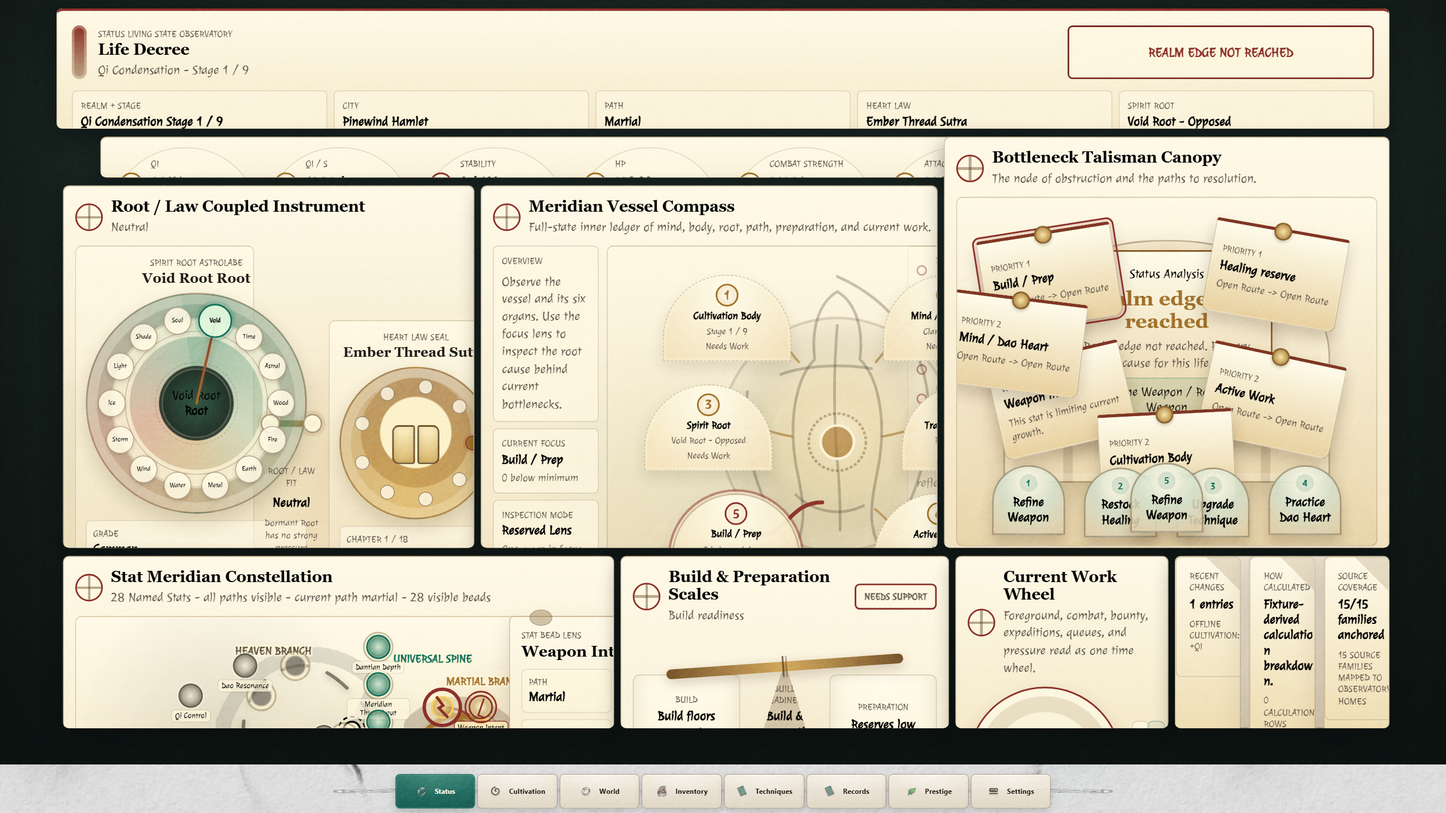
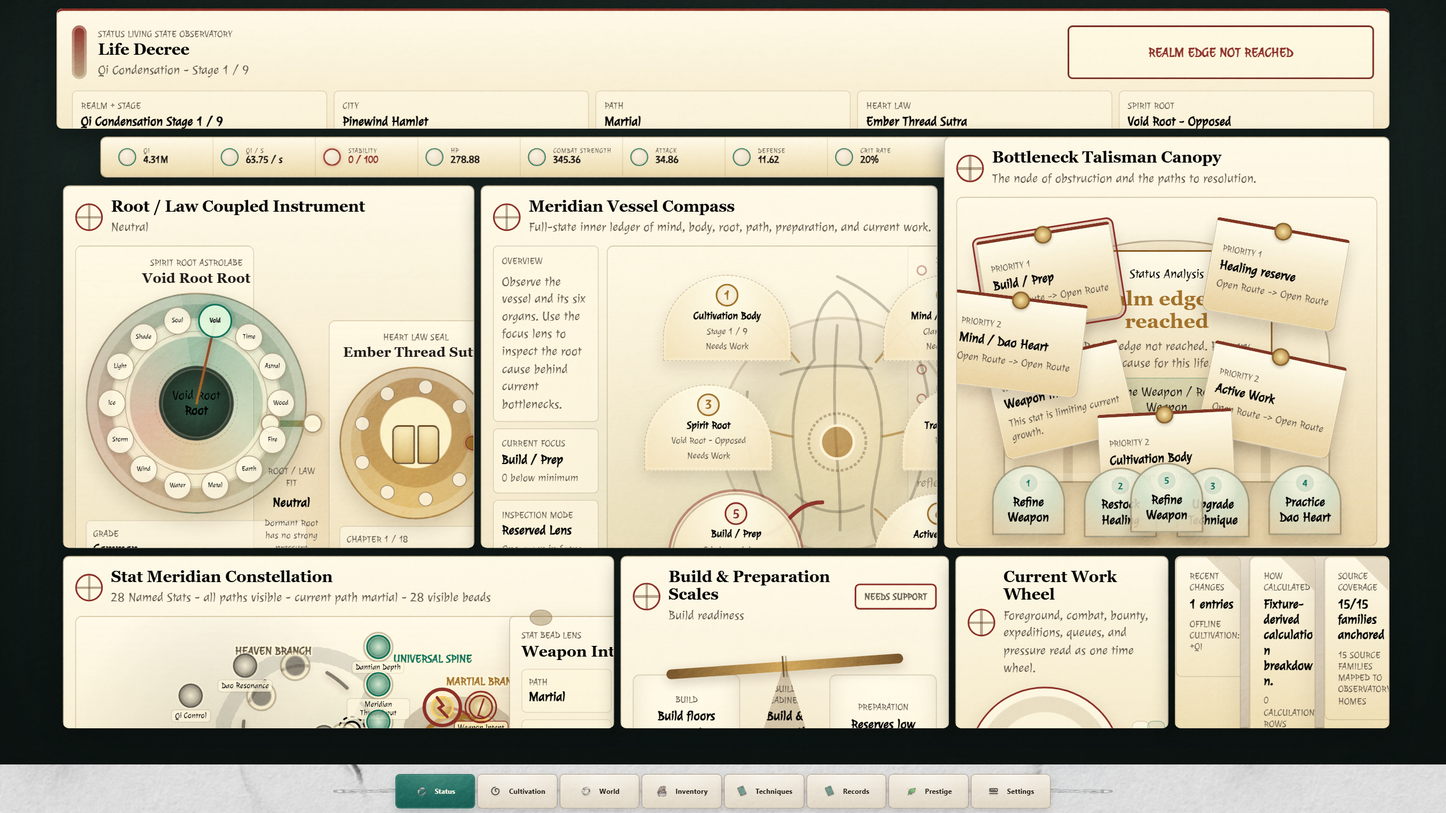
oneshot S3 (partial): Vitals Seal Ribbon — slim 9-cell medallion strip, removed D-5 source captions

Changed region(s): [[0.0625, 0.1875, 0.6562, 0.2188]]

diff --git a/src/ui/status/observatory/StatusLivingStateObservatory.scss b/src/ui/status/observatory/StatusLivingStateObservatory.scss
@@ -346,48 +346,91 @@
   line-height: 1.25;
 }
 
+/* S3: slim seal-ribbon strip — 9 metric medallions in a single row that fits
+   the 1160x50 vitals rect (no more clipped 90px pill gauges, no source caption). */
 .statusVitalsRibbon {
   display: grid;
-  grid-template-columns: repeat(6, minmax(0, 1fr));
-  gap: 8px;
-  padding: 12px;
+  grid-template-columns: repeat(9, minmax(0, 1fr));
+  align-items: center;
+  width: 100%;
+  height: 100%;
+  padding: 0 12px;
 }
 
 .statusVitalsRibbon__seal {
-  min-height: 90px;
   display: grid;
-  grid-template-columns: 30px minmax(0, 1fr);
+  grid-template-columns: 24px minmax(0, 1fr);
   grid-template-areas:
     "icon label"
-    "icon value"
-    "icon source";
-  gap: 2px 8px;
+    "icon value";
+  column-gap: 7px;
   align-items: center;
-  padding: 10px;
-  border-radius: 999px 999px 8px 8px;
-  border: 1px solid rgba(90, 62, 30, 0.18);
-  background: rgba(255, 249, 229, 0.62);
+  height: 100%;
+  min-height: 0;
+  padding: 0 9px;
+  border: 0;
+  border-right: 1px solid rgba(122, 94, 53, 0.16);
+  border-radius: 0;
+  background: none;
+}
+
+.statusVitalsRibbon__seal:last-child {
+  border-right: 0;
 }
 
 .statusVitalsRibbon__icon {
   grid-area: icon;
-  width: 28px;
-  height: 28px;
+  width: 22px;
+  height: 22px;
   border-radius: 50%;
-  border: 2px solid currentColor;
-  color: var(--observatory-state);
+  border: 1.5px solid currentColor;
+  color: var(--paper-rare);
+  background: radial-gradient(circle at 38% 32%, var(--paper-parchment-soft), var(--paper-parchment-strong));
+  box-shadow: inset 0 0 0 1px rgba(122, 94, 53, 0.35);
 }
 
 .statusVitalsRibbon__label {
   grid-area: label;
+  align-self: end;
+  font-size: 8.5px;
+  letter-spacing: 0.05em;
+  text-transform: uppercase;
+  color: var(--paper-ink-muted);
+  line-height: 1.05;
+  white-space: nowrap;
+  overflow: hidden;
+  text-overflow: ellipsis;
 }
 
 .statusVitalsRibbon__value {
   grid-area: value;
+  align-self: start;
+  font-size: 12.5px;
+  font-weight: 700;
+  color: var(--paper-ink);
+  line-height: 1.15;
+  white-space: nowrap;
+  overflow: hidden;
+  text-overflow: ellipsis;
 }
 
-.statusVitalsRibbon__source {
-  grid-area: source;
+/* At-risk vitals: cinnabar medallion ring + value (shape + color + label). */
+.statusVitalsRibbon__seal[data-tone='danger'] .statusVitalsRibbon__icon {
+  color: var(--paper-cinnabar-bright);
+  box-shadow: inset 0 0 0 1px var(--paper-stamp), 0 0 7px var(--obs-glow-cinnabar-soft);
+}
+
+.statusVitalsRibbon__seal[data-tone='danger'] .statusVitalsRibbon__value {
+  color: var(--paper-stamp);
+}
+
+.statusVitalsRibbon__seal[data-tone='warning'] .statusVitalsRibbon__icon {
+  color: var(--paper-amber);
+}
+
+.statusVitalsRibbon__seal[data-tone='jade'] .statusVitalsRibbon__icon,
+.statusVitalsRibbon__seal[data-tone='success'] .statusVitalsRibbon__icon {
+  color: var(--paper-jade-bright);
 }
 
 .statusObservatoryInstrument {

diff --git a/src/ui/status/observatory/StatusVitalsSealRibbon.tsx b/src/ui/status/observatory/StatusVitalsSealRibbon.tsx
@@ -1,0 +1,29 @@
+import type { StatusObservatorySurfaceV1 } from '../../../systems/ui/status/statusObservatoryTypes.js';
+
+interface StatusVitalsSealRibbonProps {
+  surface: StatusObservatorySurfaceV1['vitalsRibbon'];
+}
+
+export function StatusVitalsSealRibbon({ surface }: StatusVitalsSealRibbonProps) {
+  return (
+    <section
+      className="statusObservatoryVitals statusVitalsRibbon"
+      data-testid="status-ledger-metrics"
+      data-surface-testid={surface.rootTestId}
+      aria-label={surface.title}
+    >
+      {surface.seals.map((seal) => (
+        <div
+          key={seal.id}
+          className="statusVitalsRibbon__seal"
+          data-tone={seal.tone}
+          aria-label={seal.ariaLabel}
+        >
+          <span className="statusVitalsRibbon__icon" data-icon={seal.icon} aria-hidden="true" />
+          <span className="statusVitalsRibbon__label">{seal.label}</span>
+          <strong className="statusVitalsRibbon__value">{seal.value ?? 'Unavailable'}</strong>
+        </div>
+      ))}
+    </section>
+  );
+}

diff --git a/docs/release/ONESHOT_PROGRESS.md b/docs/release/ONESHOT_PROGRESS.md
@@ -28,7 +28,7 @@ Crash-recovery spine: each stage is ticked, noted (3–6 lines), and committed (
 - [x] **S0** Recon
 - [x] **S1** The Stage (fixed 1672×941 design space, scale hook, void viewport, full-bleed)
 - [x] **S2** Palette purge + Frame-I region rects + plate materials/title tabs
-- [ ] **S3** Life Decree + Vitals Ribbon
+- [~] **S3** Life Decree + Vitals Ribbon — *Vitals rebuilt; Life Decree deferred*
 - [ ] **S4** Root/Law Coupled Instrument (port the prototype astrolabe)
 - [ ] **S5** Meridian Vessel + Bottleneck Canopy (all 4 modes)
 - [ ] **S6** Belt: Constellation, Scales+Jars, Wheel, Ledgers
@@ -89,3 +89,13 @@ Fixed-design-space Stage + uniform monitor scaling (the void frame everything si
 - **Deferred (logged):** 19 inline raw-hex remain in OLD instrument rules in the monolith (scss lines 281–2238); those rules are rewritten in S3–S6, purging the hex then; full hex-gate at S13/S14. Legacy non-observatory files (`StatusLedgerPage.scss`, `RunCompass.scss`, `PostFailureDiagnosisPanel.scss`) carry hex but are outside this rebuild's scope.
 - S2 touched only `src/ui` SCSS (no `src/systems`) → contracts 508 baseline holds; typecheck unaffected.
 - Screenshot: `artifacts/s10-exact-mockup/stage-gate/blocked-2560x1440.png` (post-rects).
+
+---
+
+## S3 — Vitals Seal Ribbon ✅ (Life Decree deferred)
+Scoped to the Vitals ribbon (smallest, self-contained instrument). Life Decree rebuild deferred — see roadmap.
+- **D-5 fixed:** removed the per-seal `sourceLabel` caption from `StatusVitalsSealRibbon.tsx` — the "Fixture"/source debug copy no longer renders on the default surface.
+- **Slim strip:** rewrote `.statusVitalsRibbon`/`__seal`/`__icon`/`__label`/`__value` (scss ~349+) from a clipped 6-col × 90px pill-gauge grid into a single-row 9-cell medallion strip fitting the 1160×50 rect — 22px token-backed medallion + small-caps label + bold value; per-tone warning styling (danger→cinnabar ring+value, warning→amber, jade/success→jade). Killed the dead `__source` rule and the rounded-pill "semicircle gauge" look (D-4/D-5 for vitals).
+- `@media (max-width:1100px)` reflow (~scss 2724) does not fire at gate sizes; left for S13.
+- **Gate:** blocked @2560 screenshot — 9 clean medallion cells in a slim row (4.31M · 63.75/s · 0/100 · 278.88 · 345.36 · 34.86 · 11.62 · 20% · Idle), no source captions, no clipped pills. typecheck GREEN; default + blocked-state e2e green.
+- Screenshot: `artifacts/s10-exact-mockup/stage-gate/blocked-2560x1440.png` (post-vitals).
